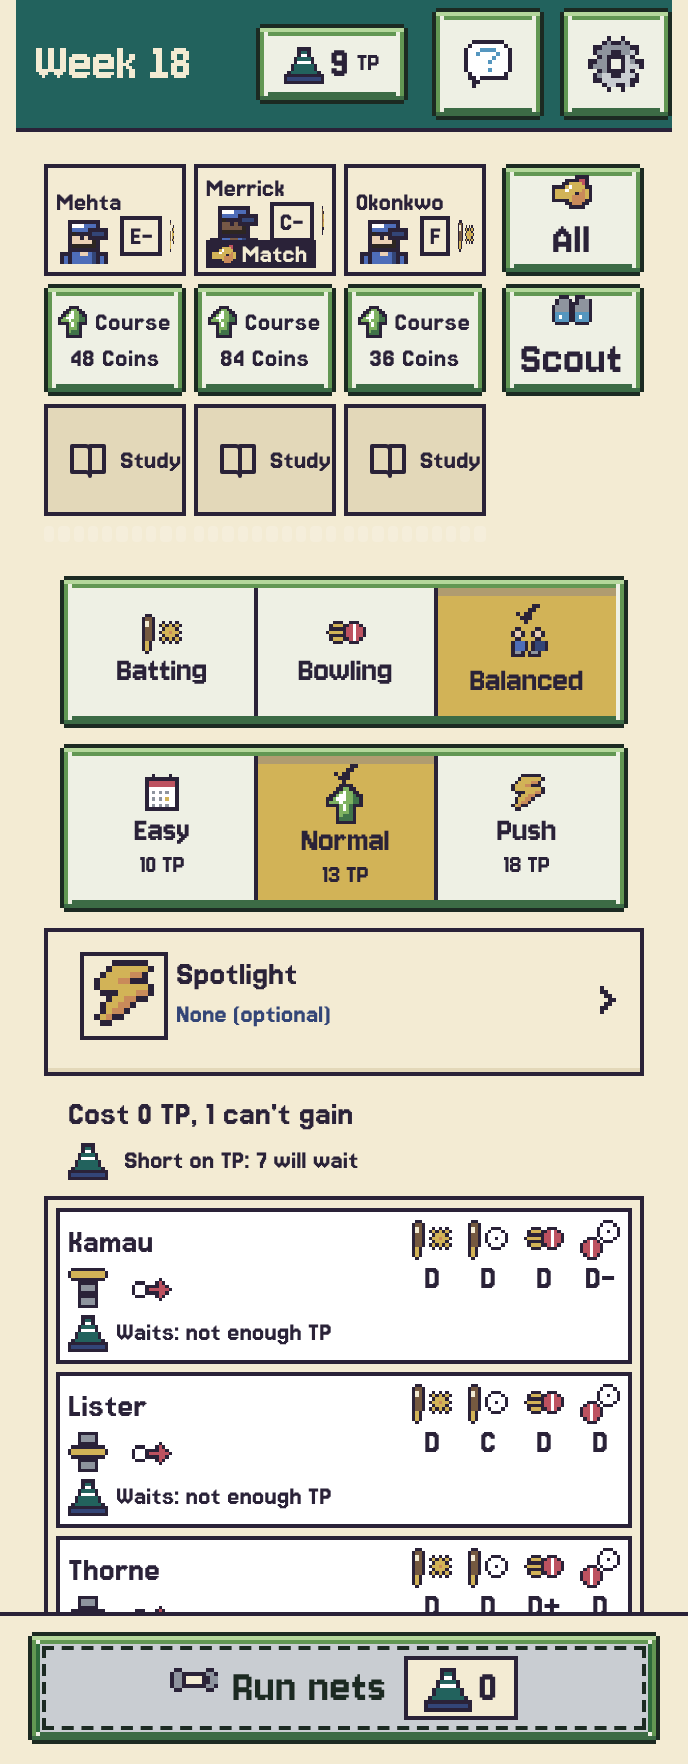
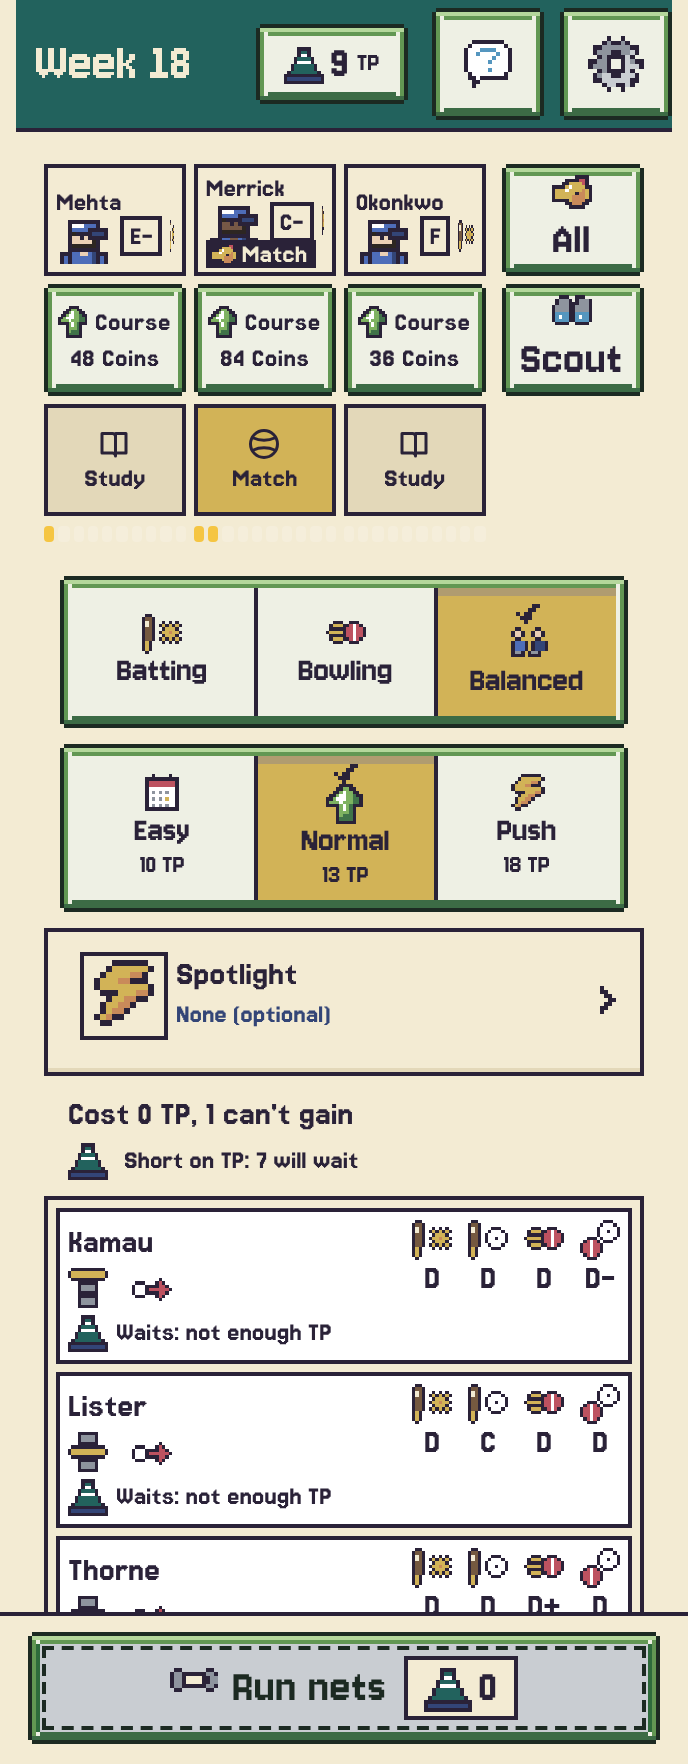
cricket-sixes T5: QA bug fixes, scout names in list, shots
Claude-Session: https://claude.ai/code/session_01Lcw2xvaApu3Uq2LMWpsQYj

diff --git a/pages/cricket-sixes/js/main.js b/pages/cricket-sixes/js/main.js
@@ -4,7 +4,7 @@ import { createSave } from './platform/save.js';
 import { openSaveSheet } from './ui/save-sheet.js';
 import { FLAGS } from './data/flags.js';
 import { applyTheme, themeOf } from './ui/theme.js';
-import { installStepUpWatcher } from './ui/stepup-sheet.js';
+import { installStepUpWatcher, makeOpenByName } from './ui/stepup-sheet.js';
 import { overlayOpen } from './ui/inert.js';
 import './install.js'; // S0 lead call 3a: T5 / T6 listener and command modules (empty today)
 
@@ -54,9 +54,9 @@ store.subscribe((s) => { saved = save.save(s); });
 window.__store = store;
 window.__save = save;
 const ui = mount(document.getElementById('app'), store);
-// T5: auto-open the coach step-up sheet. Needs mount() to return { openByName } (asked of T7); no-op until then.
-if (ui && typeof ui.openByName === 'function') {
-  installStepUpWatcher({ store, openByName: ui.openByName, overlayOpen, wheelOverlay: () => !!document.querySelector('.wh-ov'), netsScene: () => !!document.querySelector('.ns-scene') });
+// T5: auto-open the coach step-up sheet. mount() returns dispatch, so open through a hidden data-act="sheet:stepup" click inside #app.
+{
+  installStepUpWatcher({ store, openByName: (ui && typeof ui.openByName === 'function') ? ui.openByName : makeOpenByName(document.getElementById('app')), overlayOpen, wheelOverlay: () => !!document.querySelector('.wh-ov'), netsScene: () => !!document.querySelector('.ns-scene') });
 }
 
 // 4. Save sheet: any element with data-act="sheet:save" opens it.

diff --git a/pages/cricket-sixes/js/core/training.js b/pages/cricket-sixes/js/core/training.js
@@ -12,6 +12,7 @@ import { stepOfRaw } from './letters.js';
 import { matchCoachBoost } from './matchday.js';
 import { fireHook, pipeHook } from './hooks.js';
 import { weekKey, weekKeyOf } from './week-key.js';
+import { bonusNamesOf } from './coach-scout.js';
 
 export const EFFORTS = ['easy', 'normal', 'push'];
 export const FOCUSES = ['bat', 'bowl', 'bal'];
@@ -150,7 +151,7 @@ export function scoutList(s) {
   if (scoutRec(s)) return [];
   const L = leagueOfState(s), n = seasonN(s), rng = makeRng(`${s.seed || 'sixes'}|scout|${n}|${L}`);
   const sp = s.scoutSpin && s.scoutSpin.n === n ? s.scoutSpin : null; // wheel meta: the Scout wheel's Extra name (+1 candidate) and Top name (+steps to the best)
-  const count = CO.scoutSize[L - 1] + (sp ? (sp.extra | 0) : 0), out = [];
+  const count = CO.scoutSize[L - 1] + (sp ? (sp.extra | 0) : 0) + bonusNamesOf(s), out = []; // Scout-job names (coach-scout.js) are extra loop iterations: same grade-centre rule
   for (let i = 0; i < count; i++) {
     const step = Math.max(1, Math.min(CO.maxStep, CO.scoutCentre[L - 1] + rng.int(2 * CO.scoutSpread + 1) - CO.scoutSpread));
     const strong = rng.shuffle(FOCUSES.slice()).slice(0, 1 + rng.int(2));

diff --git a/pages/cricket-sixes/js/ui/stepup-sheet.js b/pages/cricket-sixes/js/ui/stepup-sheet.js
@@ -22,6 +22,19 @@ export function openStepUp(s, dispatch, open, arg) {
   });
 }
 
+/** openByName-equivalent for main.js: app.js mount() returns dispatch, not openByName, so click a hidden data-act="sheet:<name>" button inside the app root (bindActs listens there). @param {any} [root] @param {any} [doc] */
+export function makeOpenByName(root, doc) {
+  return (/** @type {string} */ name) => {
+    const d = doc || (typeof document !== 'undefined' ? document : null), r = root || (d && d.getElementById('app'));
+    if (!d || !r) return false;
+    const b = d.createElement('button');
+    b.setAttribute('type', 'button'); b.setAttribute('data-act', 'sheet:' + name); b.setAttribute('aria-hidden', 'true'); b.tabIndex = -1; b.hidden = true;
+    r.appendChild(b);
+    try { b.click(); } finally { if (b.parentNode) b.parentNode.removeChild(b); }
+    return true;
+  };
+}
+
 const LIVE_STAGES = ['bowl', 'chase', 'break'];
 
 /** Ui flags from state plus env probes. wheelOpen: wheel mode screen or a wheel overlay; matchLive: match overs stage; netsScene: env probe. @param {any} state @param {any} [env] */

diff --git a/pages/cricket-sixes/css/cw-chip.css b/pages/cricket-sixes/css/cw-chip.css
@@ -8,3 +8,7 @@
 .cw-chip-away { background: var(--stone1, #cfc8b8); border-style: dashed; }
 .cw-chip:focus-visible { outline: 3px solid var(--accent, #0b57d0); outline-offset: 2px; }
 .cw-locked { border-style: double; }
+/* 344 px fit: whole word, 14 px, 56 px tap. Icon stacked above the word so "Match" and "On course" never clip. */
+.cw-chip { flex-direction: column; gap: 0; padding: 2px var(--c-sp-1, 4px); min-width: 56px; box-sizing: border-box; line-height: 16px; }
+.cw-chip .cw-ico { width: 18px; height: 18px; }
+.cw-chip .cw-word { font-size: 14px; line-height: 16px; overflow: visible; }

diff --git a/pages/cricket-sixes/js/ui/training-view.js b/pages/cricket-sixes/js/ui/training-view.js
@@ -151,7 +151,7 @@ export function slotSpotlight(vm) { return ''; } // owner: T2
 /* SLOT:JobChip start */
 export function slotJobChip(vm, coach) { // owner: T5
   if (!coach || !coach.id) return '';
-  return chipHtml({ id: coach.id, job: normJob(coach.job), locked: !!coach.jobLocked, why: coach.why || '' });
+  return chipHtml({ id: coach.id, job: (coach.away > 0 || coach.job === 'away') ? 'away' : normJob(coach.job), locked: !!coach.jobLocked, why: coach.why || '' });
 }
 /* SLOT:JobChip end */
 /* SLOT:XpBar start */

diff --git a/pages/cricket-sixes/js/ui/coaches-sheet.js b/pages/cricket-sixes/js/ui/coaches-sheet.js
@@ -22,7 +22,7 @@ export function slotCourse(vm) { return ''; } // owner: T2
 /* SLOT:JobChip start */
 export function slotJobChip(vm, coach) { // owner: T5
   if (!coach || !coach.id) return '';
-  return chipHtml({ id: coach.id, job: normJob(coach.job), locked: !!coach.jobLocked, why: coach.why || '' });
+  return chipHtml({ id: coach.id, job: (coach.away > 0 || coach.job === 'away') ? 'away' : normJob(coach.job), locked: !!coach.jobLocked, why: coach.why || '' });
 }
 /* SLOT:JobChip end */
 /* SLOT:XpBar start */

diff --git a/pages/cricket-sixes/docs/TEST-AUDIT-T5.md b/pages/cricket-sixes/docs/TEST-AUDIT-T5.md
@@ -1,0 +1,76 @@
+# TEST-AUDIT-T5: TEST-MAP-T5 IDs vs test/coach-*.test.mjs
+
+Method: grep of the ID string in test/coach-*.test.mjs (plus subject check). Line numbers are the `test(` line.
+Notes: the planned file coach-ui.test.mjs was never created; UI IDs live in coach-chip, coach-jobsheet, coach-xpbar, coach-stepup, coach-a11y. coach-hooks.test.mjs labels its nets/match tests T4.2/T4.4 (SPEC numbering differs from the map); matched by subject below.
+
+| ID | Result | Note |
+|---|---|---|
+| T1.1 | test/coach-weekly-const.test.mjs:9 | |
+| T1.2-T1.5 | OUT OF SCOPE | wheel slice constants, not coach (wheel owner) |
+| T1.6 | test/coach-weekly-const.test.mjs:16 | |
+| T1.7 | test/coach-weekly-const.test.mjs:27 | |
+| T1.8 | OUT OF SCOPE | Clinic constants |
+| T1.9 | test/coach-weekly-const.test.mjs:32 | |
+| T3.1 | test/coach-jobs.test.mjs:10 | |
+| T3.2 | test/coach-jobs.test.mjs:15 | |
+| T3.3 | test/coach-jobs.test.mjs:20 | |
+| T3.4 | test/coach-jobs.test.mjs:26 | |
+| T3.5 | test/coach-jobs.test.mjs:31 | |
+| T3.6 | test/coach-jobs.test.mjs:37 | |
+| T3.7 | test/coach-jobs.test.mjs:43 | |
+| T3.8 | test/coach-jobs.test.mjs:50 | |
+| T3.9 | test/coach-jobs.test.mjs:56 | |
+| T3.10 | test/coach-jobs.test.mjs:62 | |
+| T3.11 | test/coach-jobs.test.mjs:68 | |
+| T3.12 | test/coach-jobs.test.mjs:74 | |
+| T4.1 | test/coach-xp.test.mjs:8 | also coach-hooks.test.mjs:12 (labelled T4.2) |
+| T4.2 | test/coach-hooks.test.mjs:20 | jackpot pays 0 |
+| T4.3 | test/coach-xp.test.mjs:20 | also coach-hooks.test.mjs:27 (labelled T4.4) |
+| T4.4 | test/coach-xp.test.mjs:21 | bye pays 0 (weak: verify subject) |
+| T4.5 | test/coach-steps.test.mjs:23 | |
+| T4.6 | test/coach-steps.test.mjs:49 | |
+| T4.7 | test/coach-xp.test.mjs:26 | |
+| T4.8 | test/coach-xp.test.mjs:31 | |
+| T4.9 | test/coach-xp.test.mjs:37 | |
+| T4.10 | test/coach-steps.test.mjs:64 | |
+| T4.11 | MISSING | new step changes Q from next run: no test |
+| T4.12 | test/coach-hooks.test.mjs:45 | endWeek hook pays Study/Scout; an auto-played-week case is not separately tested |
+| T4.13 | test/coach-steps.test.mjs:71 | covered although the map excluded it as Clinic |
+| T4.14 | MISSING | only "double install does not double pay" (coach-hooks.test.mjs); no reload / same-event repay test |
+| T4.15 | test/coach-steps.test.mjs:80 | also :88, :94 |
+| T5.1 | test/coach-scout.test.mjs:9 | |
+| T5.2 | test/coach-scout.test.mjs:13 | |
+| T5.3 | test/coach-scout.test.mjs:18 | |
+| T5.4 | test/coach-scout.test.mjs:23 | |
+| T5.5 | test/coach-scout.test.mjs:30 | |
+| T5.6 | test/coach-scout.test.mjs:39 | |
+| T6.1 | test/coach-chip.test.mjs:10 | also coach-jobsheet.test.mjs:33 |
+| T6.2 | test/coach-jobsheet.test.mjs:14 | |
+| T6.3 | test/coach-jobsheet.test.mjs:21 | |
+| T6.4 | MISSING | layouts for 3/2/1/0 coaches: no test |
+| T6.5 | test/coach-chip.test.mjs:35 | On course chip (the ID string at :21 is the CSS 56px test) |
+| T6.6 | test/coach-chip.test.mjs:21 | 56px taps; ID string sits on :29 |
+| T6.7 | test/coach-store.test.mjs:24 | |
+| T6.8 | test/coach-jobsheet.test.mjs:28 | |
+| T6.9 | test/coach-a11y.test.mjs:23 | equivalent (no ID string): interactive classes min-height 56px |
+| T6.10 | test/coach-jobsheet.test.mjs:33 | |
+| T7.1 | test/coach-xpbar.test.mjs:6 | |
+| T7.2 | test/coach-xpbar.test.mjs:13 | |
+| T7.3 | test/coach-xpbar.test.mjs:19 | |
+| T7.4 | test/coach-stepup.test.mjs:11 | |
+| T7.5 | test/coach-stepup.test.mjs:22 | |
+| T7.6 | test/coach-stepup.test.mjs:29 | |
+| T7.7 | test/coach-stepup.test.mjs:39 | |
+| T7.9 | test/coach-stepup.test.mjs:45 | |
+| T11.1 | MISSING | coach constants vs section 3 only covered by T1.9 in the const file |
+| T11.2 | test/coach-report.test.mjs:8 | |
+| T11.3 | test/coach-report.test.mjs:17 | |
+| T11.4 | MISSING | scripted-week report numbers |
+| T11.5 | test/coach-report.test.mjs:29 | |
+| T11.6 | OUT OF SCOPE | wheel line |
+| T11.7 | MISSING | `mc` per match in the COACHES block |
+| T11.8 | OUT OF SCOPE | Clinic line |
+
+Totals (68 IDs): covered 55, MISSING 6 (T4.11, T4.14, T6.4, T11.1, T11.4, T11.7), out of scope 7 (T1.2-T1.5, T1.8, T11.6, T11.8).
+
+Soak (T12.8): test/coach-soak.test.mjs. Finding: payXp clamps xp only when it pays, so a corrupt xp on a coach no hook pays stays corrupt until load; the soak accepts that (load-time clamp belongs to save-migrate).
